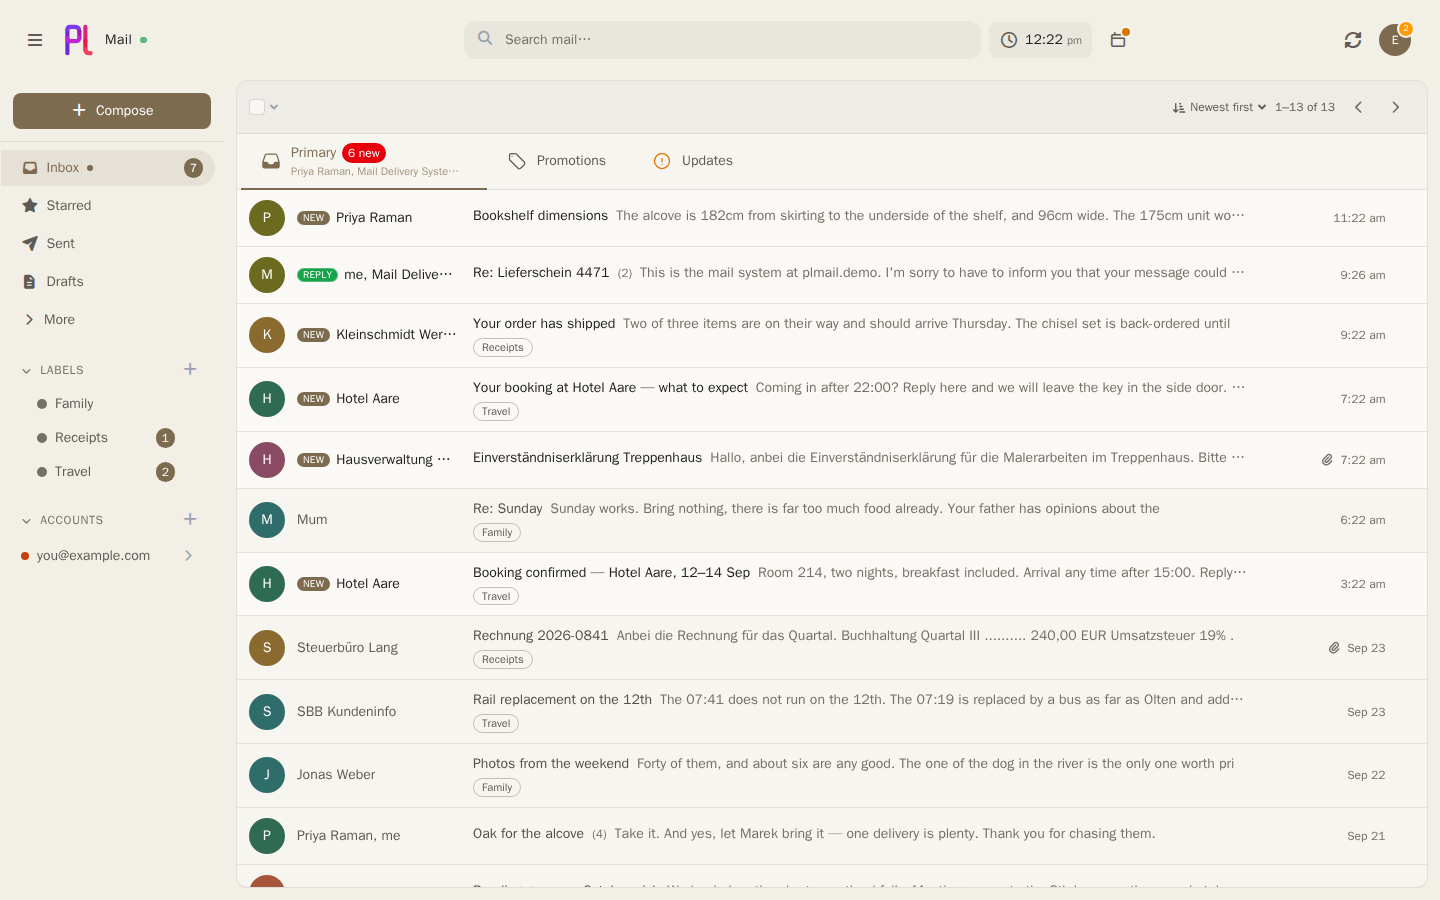
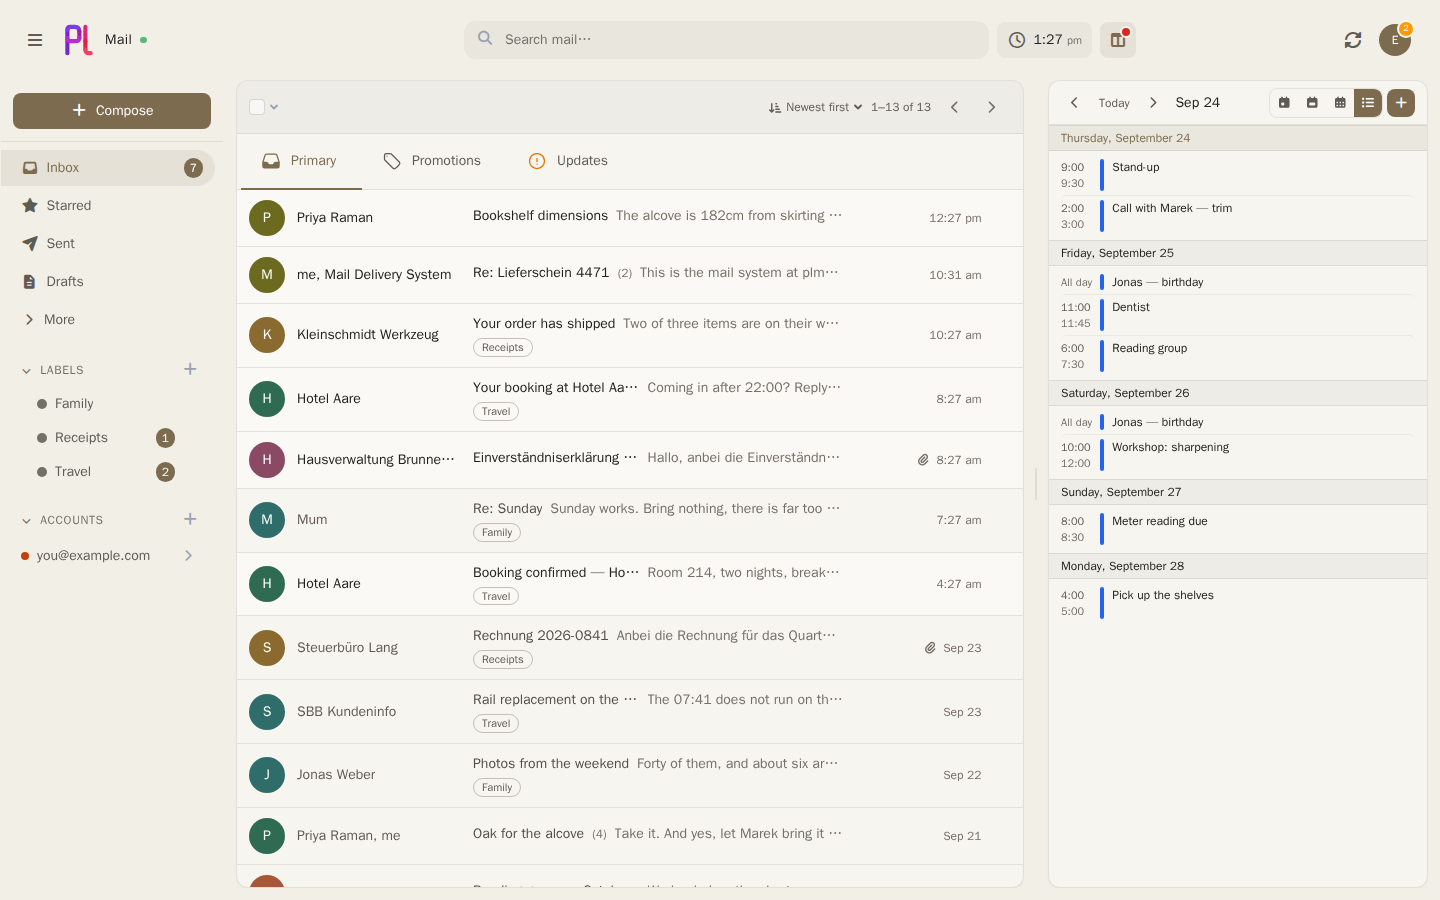
docs: the README's inbox shows the calendar beside the mail
The first picture now shows what a desktop opens on, and what the
README's first line promises. The fixture user stays on the mail alone
for the regression suite, so the capture asks for split and restores
the mail afterwards.

diff --git a/tests/e2e/screenshots.spec.ts b/tests/e2e/screenshots.spec.ts
@@ -53,6 +53,29 @@ async function capture(page: import("@playwright/test").Page, name: string): Pro
     await page.screenshot({ path: `${OUT}/${name}.png` });
 }
 
+/**
+ * Put the docked calendar in one position, the way the topbar switch persists
+ * it: a POST to the pane-state endpoint with the shell's own token.
+ */
+async function paneMode(page: import("@playwright/test").Page, mode: "mail" | "split"): Promise<void> {
+    const status = await page.evaluate(async (wanted) => {
+        const shell = document.querySelector("[data-controller~='ui--split']") as HTMLElement;
+        const body = new FormData();
+        body.append("_token", shell.getAttribute("data-ui--split-token-value") ?? "");
+        body.append("mode", wanted);
+
+        const response = await fetch(shell.getAttribute("data-ui--split-state-url-value") ?? "", {
+            method: "POST",
+            body,
+            headers: { "X-Requested-With": "fetch" },
+        });
+
+        return response.status;
+    }, mode);
+
+    expect(status, `the pane could not be put in ${mode}`).toBeLessThan(300);
+}
+
 test.describe("README screenshots", () => {
     test.skip(
         undefined === process.env.E2E_SCREENSHOTS,
@@ -65,11 +88,26 @@ test.describe("README screenshots", () => {
     // needed an installation nobody else had.
     test.beforeAll(() => seed("seed-demo"));
 
+    /**
+     * With the calendar beside the mail, which is how a desktop opens plMail
+     * and what the README's first line promises. The fixture user is kept on
+     * the mail alone for the regression suite (app:test:seed-user), so this
+     * asks for the default back for the one picture and restores the
+     * furniture afterwards. The captures after this one are of other things.
+     */
     test("inbox", async ({ page }) => {
         await page.goto("/mail/inbox");
-        await expect(page.locator("#message-list li").first()).toBeVisible();
-        await page.waitForTimeout(600);
-        await capture(page, "inbox");
+        await paneMode(page, "split");
+
+        try {
+            await page.goto("/mail/inbox");
+            await expect(page.locator("#message-list li").first()).toBeVisible();
+            await expect(page.locator("turbo-frame#calendar-pane-frame [data-pane-min-width]")).toBeVisible();
+            await page.waitForTimeout(600);
+            await capture(page, "inbox");
+        } finally {
+            await paneMode(page, "mail");
+        }
     });
 
     test("thread", async ({ page }) => {
